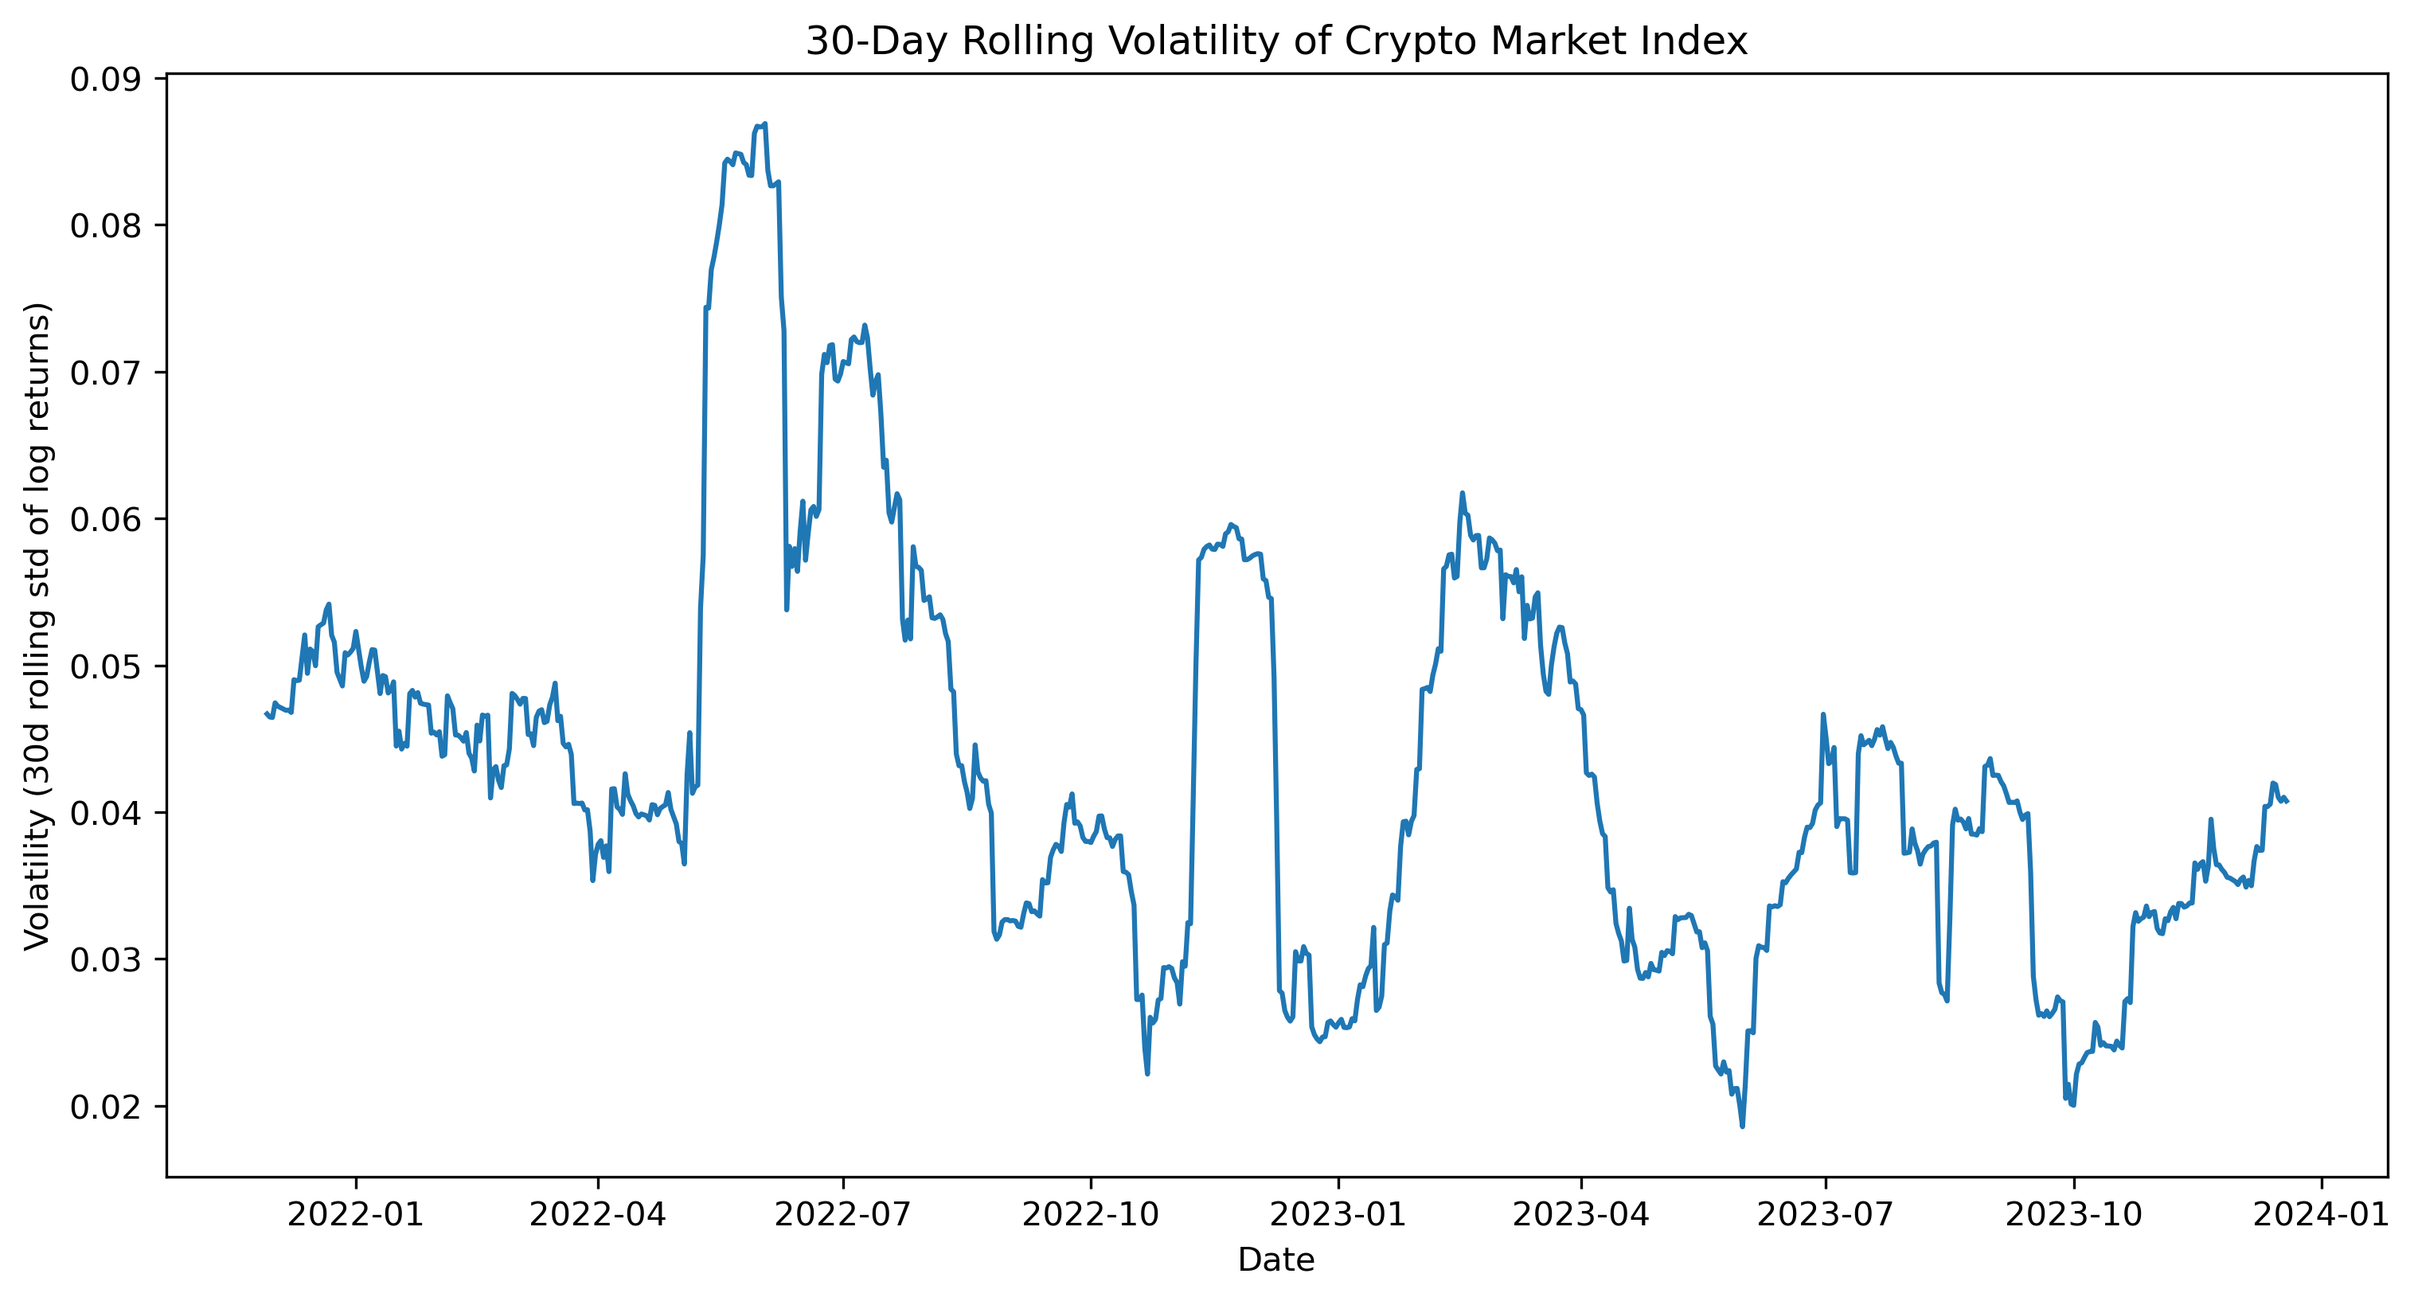
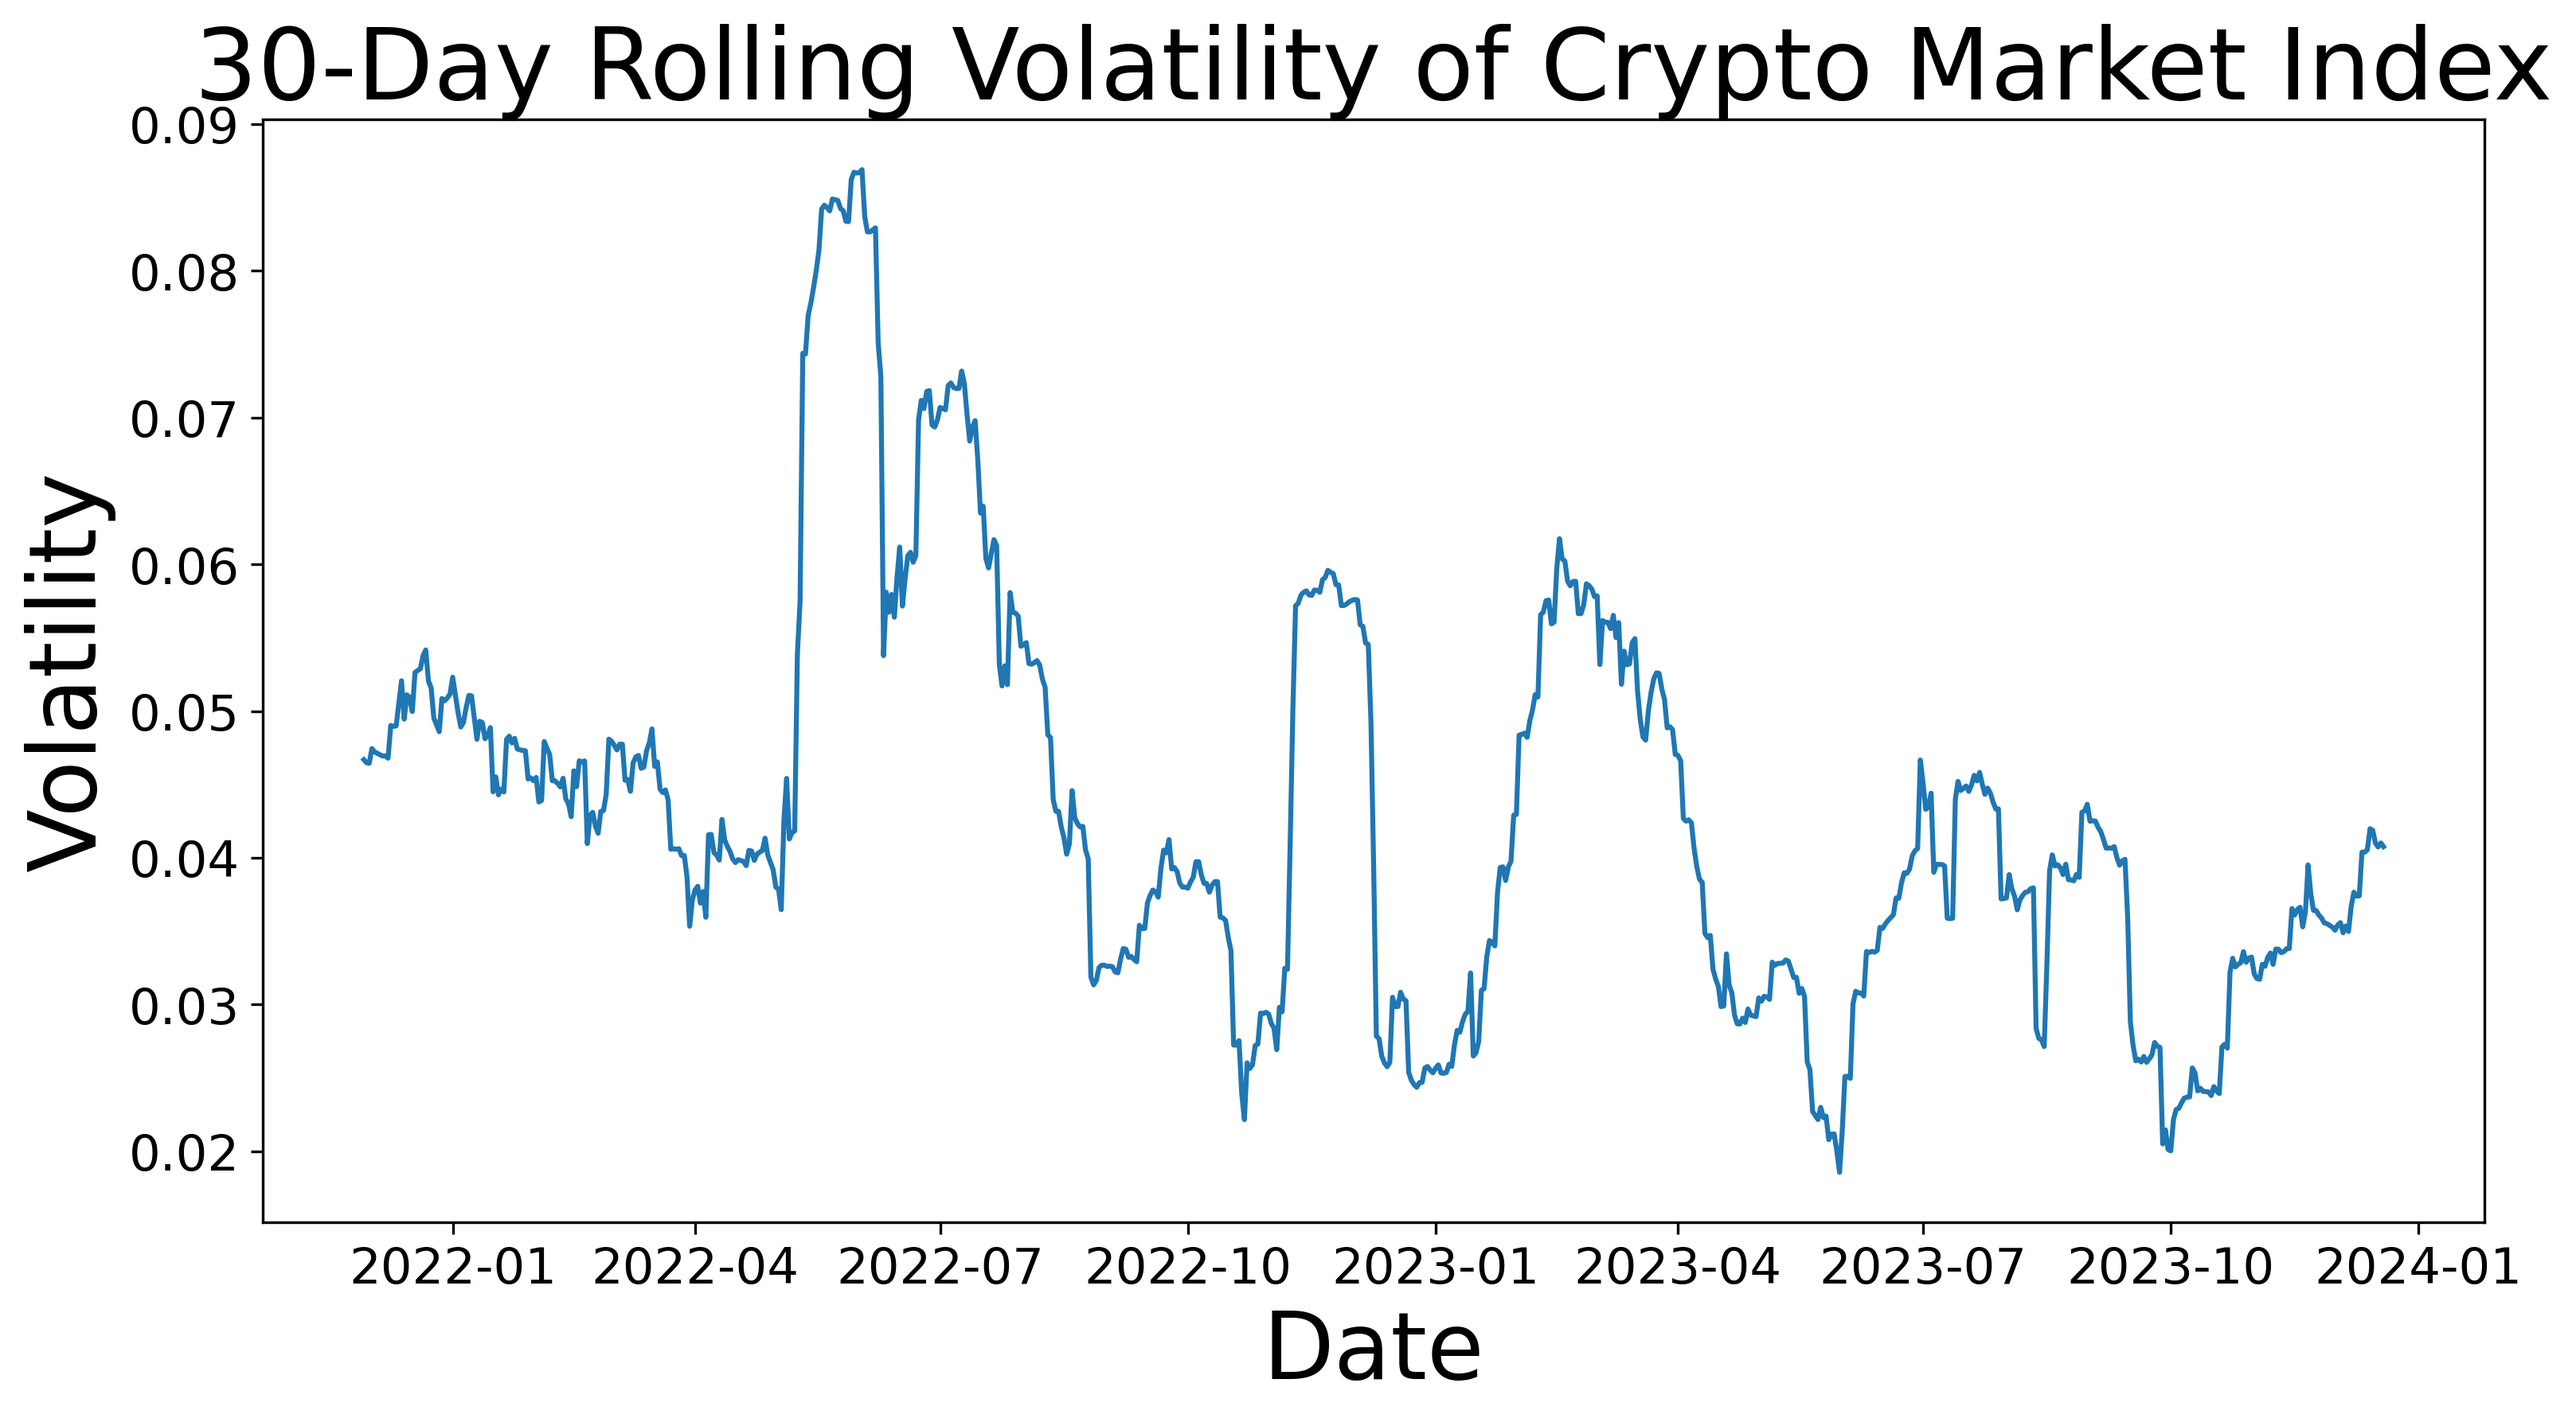
Increase fontsize for visuals

diff --git a/eda.py b/eda.py
@@ -36,14 +36,21 @@ btc_df["btc_normalized"] = (
 # Visual 1
 plt.figure(figsize=(12,6))
 
-plt.plot(market_index["Date"],market_index["normalized_price"],label="Market Index (Median)")
+plt.plot(market_index["Date"], market_index["normalized_price"],
+         label="Market Index (Median)")
 
-plt.plot(btc_df["Date"],btc_df["btc_normalized"],label="Bitcoin")
+plt.plot(btc_df["Date"], btc_df["btc_normalized"],
+         label="Bitcoin")
 
-plt.title("Crypto Market Index vs Bitcoin Price")
-plt.ylabel("Normalized Price")
-plt.xlabel("Date")
-plt.legend()
+plt.title("Crypto Market Index vs Bitcoin Price", fontsize=30)
+
+plt.ylabel("Normalized Price", fontsize=28)
+plt.xlabel("Date", fontsize=28)
+
+plt.xticks(fontsize=15)
+plt.yticks(fontsize=15)
+
+plt.legend(fontsize=30)
 
 plt.tight_layout()
 plt.savefig("fig1_market_index.png", dpi=300, bbox_inches="tight")
@@ -77,7 +84,10 @@ ax1.plot(
     market_index_smooth["normalized_price_smooth"],
     label="Market Index (30d MA)"
 )
-ax1.set_ylabel("Normalized Price")
+ax1.set_ylabel("Normalized Price", fontsize=28)
+ax1.set_xlabel("Date", fontsize=28)
+ax1.tick_params(axis="x", labelsize=15)
+ax1.tick_params(axis="y", labelsize=15)
 
 # Second y-axis for sentiment
 ax2 = ax1.twinx()
@@ -87,13 +97,14 @@ ax2.plot(
     color="orange",
     label="Average Sentiment (30d MA)"
 )
-ax2.set_ylabel("Average Sentiment Score")
+ax2.set_ylabel("Average Sentiment Score", fontsize=28)
+ax2.tick_params(axis="y", labelsize=15)
 
 lines1, labels1 = ax1.get_legend_handles_labels()
 lines2, labels2 = ax2.get_legend_handles_labels()
-ax1.legend(lines1 + lines2, labels1 + labels2, loc="upper right")
+ax1.legend(lines1 + lines2, labels1 + labels2, loc="upper right", fontsize=30)
 
-plt.title("Market Index vs Average Sentiment (30-Day Rolling)")
+plt.title("Market Index vs Average Sentiment (30-Day Rolling)", fontsize=30)
 plt.tight_layout()
 plt.savefig("fig2_market_vs_sentiment.png", dpi=300, bbox_inches="tight")
 plt.show()
@@ -111,8 +122,11 @@ market_index["vol_30d"] = market_index["log_return"].rolling(30).std()
 plt.figure(figsize=(12,6))
 vol_df = market_index.dropna(subset=["vol_30d"])
 plt.plot(vol_df["Date"], vol_df["vol_30d"])
-plt.title("30-Day Rolling Volatility of Crypto Market Index")
-plt.ylabel("Volatility")
+plt.title("30-Day Rolling Volatility of Crypto Market Index", fontsize=30)
+plt.ylabel("Volatility", fontsize=28)
+plt.xlabel("Date", fontsize=28)
+plt.xticks(fontsize=15)
+plt.yticks(fontsize=15)
 plt.savefig("fig3_rolling_volatility.png", dpi=300, bbox_inches="tight")
 plt.show()
 
@@ -134,15 +148,17 @@ dispersion.loc[
 dispersion.loc[dispersion["Date"] >= "2023-01-01", "period"] = "Recovery 2023"
 
 
-plt.figure(figsize=(8,6))
+plt.figure(figsize=(12,6))
 
 order = ["Pre-Crash", "Crash 2022", "Recovery 2023"]
 sns.boxplot(x="period", y="iqr", data=dispersion, order=order)
 
-plt.title("Cross-Asset Dispersion by Market Period")
-plt.ylabel("IQR of Normalized Prices")
-plt.xlabel("Market Period")
-plt.tight_layout()
+plt.title("Cross-Asset Dispersion by Market Period", fontsize=30)
+plt.ylabel("IQR of Normalized Prices", fontsize=28)
+plt.xlabel("Market Period", fontsize=28)
+
+plt.xticks(fontsize=15)
+plt.yticks(fontsize=15)
 plt.savefig("fig4_dispersion_by_period.png", dpi=300, bbox_inches="tight")
 plt.show()
 
